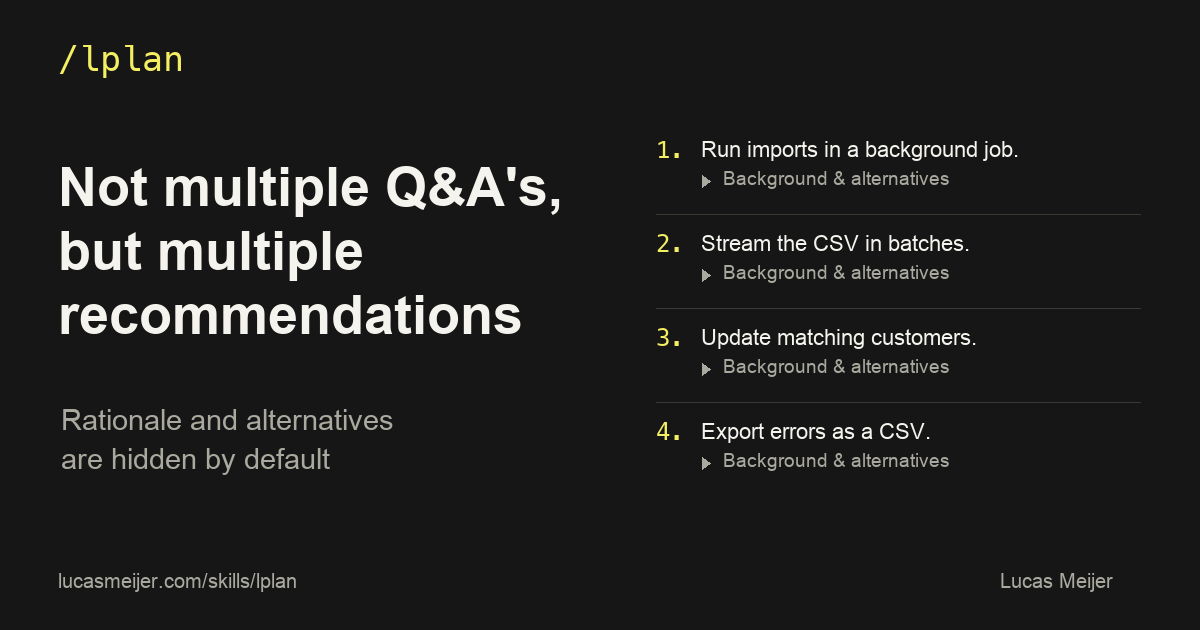
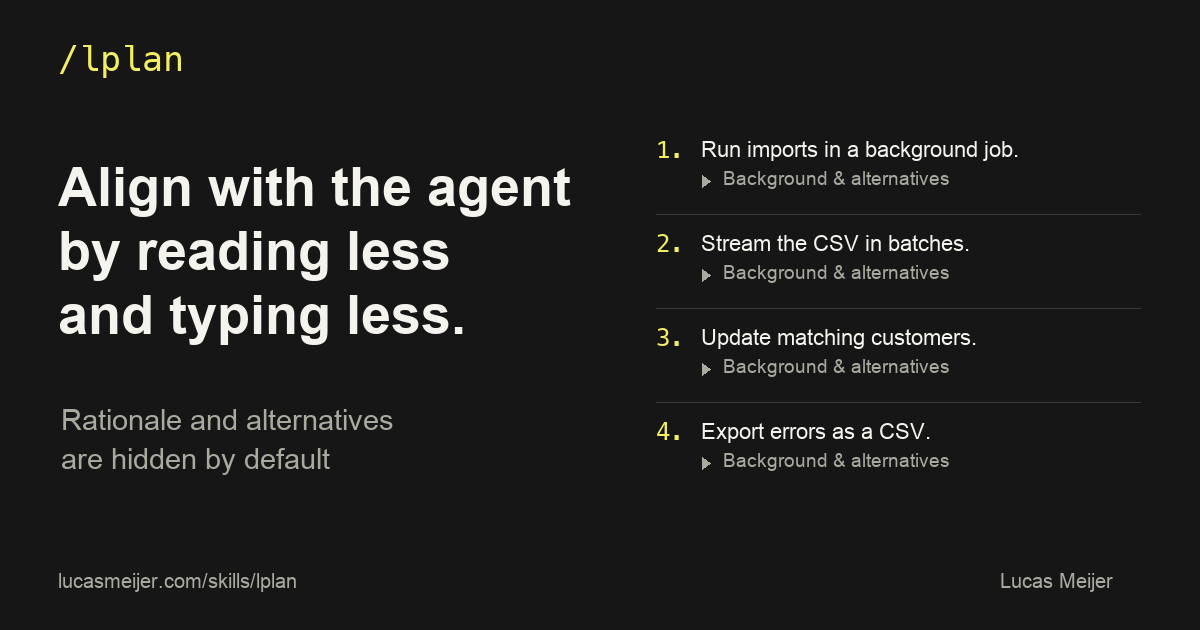
Update lplan social card to reading less and typing less

Changed region(s): [[0.0308, 0.2413, 0.4933, 0.5429]]

diff --git a/skills/lplan/index.html b/skills/lplan/index.html
@@ -8,19 +8,19 @@
   <link rel="canonical" href="https://lucasmeijer.com/skills/lplan/">
   <meta property="og:type" content="website">
   <meta property="og:url" content="https://lucasmeijer.com/skills/lplan/">
-  <meta property="og:title" content="/lplan — Not multiple Q&amp;A's, but multiple recommendations">
+  <meta property="og:title" content="/lplan — Align with the agent by reading less and typing less.">
   <meta property="og:description" content="Rationale and alternatives are hidden by default">
-  <meta property="og:image" content="https://lucasmeijer.com/skills/lplan/social-card.png?v=3">
+  <meta property="og:image" content="https://lucasmeijer.com/skills/lplan/social-card.png?v=4">
   <meta property="og:image:width" content="1200">
   <meta property="og:image:height" content="630">
-  <meta property="og:image:alt" content="/lplan. Not multiple Q&amp;A's, but multiple recommendations. Rationale and alternatives are hidden by default.">
+  <meta property="og:image:alt" content="/lplan. Align with the agent by reading less and typing less. Rationale and alternatives are hidden by default.">
   <meta name="twitter:card" content="summary_large_image">
   <meta name="twitter:site" content="@lucasmeijer">
   <meta name="twitter:creator" content="@lucasmeijer">
-  <meta name="twitter:title" content="/lplan — Not multiple Q&amp;A's, but multiple recommendations">
+  <meta name="twitter:title" content="/lplan — Align with the agent by reading less and typing less.">
   <meta name="twitter:description" content="Rationale and alternatives are hidden by default">
-  <meta name="twitter:image" content="https://lucasmeijer.com/skills/lplan/social-card.png?v=3">
-  <meta name="twitter:image:alt" content="/lplan. Not multiple Q&amp;A's, but multiple recommendations. Rationale and alternatives are hidden by default.">
+  <meta name="twitter:image" content="https://lucasmeijer.com/skills/lplan/social-card.png?v=4">
+  <meta name="twitter:image:alt" content="/lplan. Align with the agent by reading less and typing less. Rationale and alternatives are hidden by default.">
   <link rel="icon" href="/favicon.ico">
   <link rel="stylesheet" href="styles.css?v=5">
 </head>
